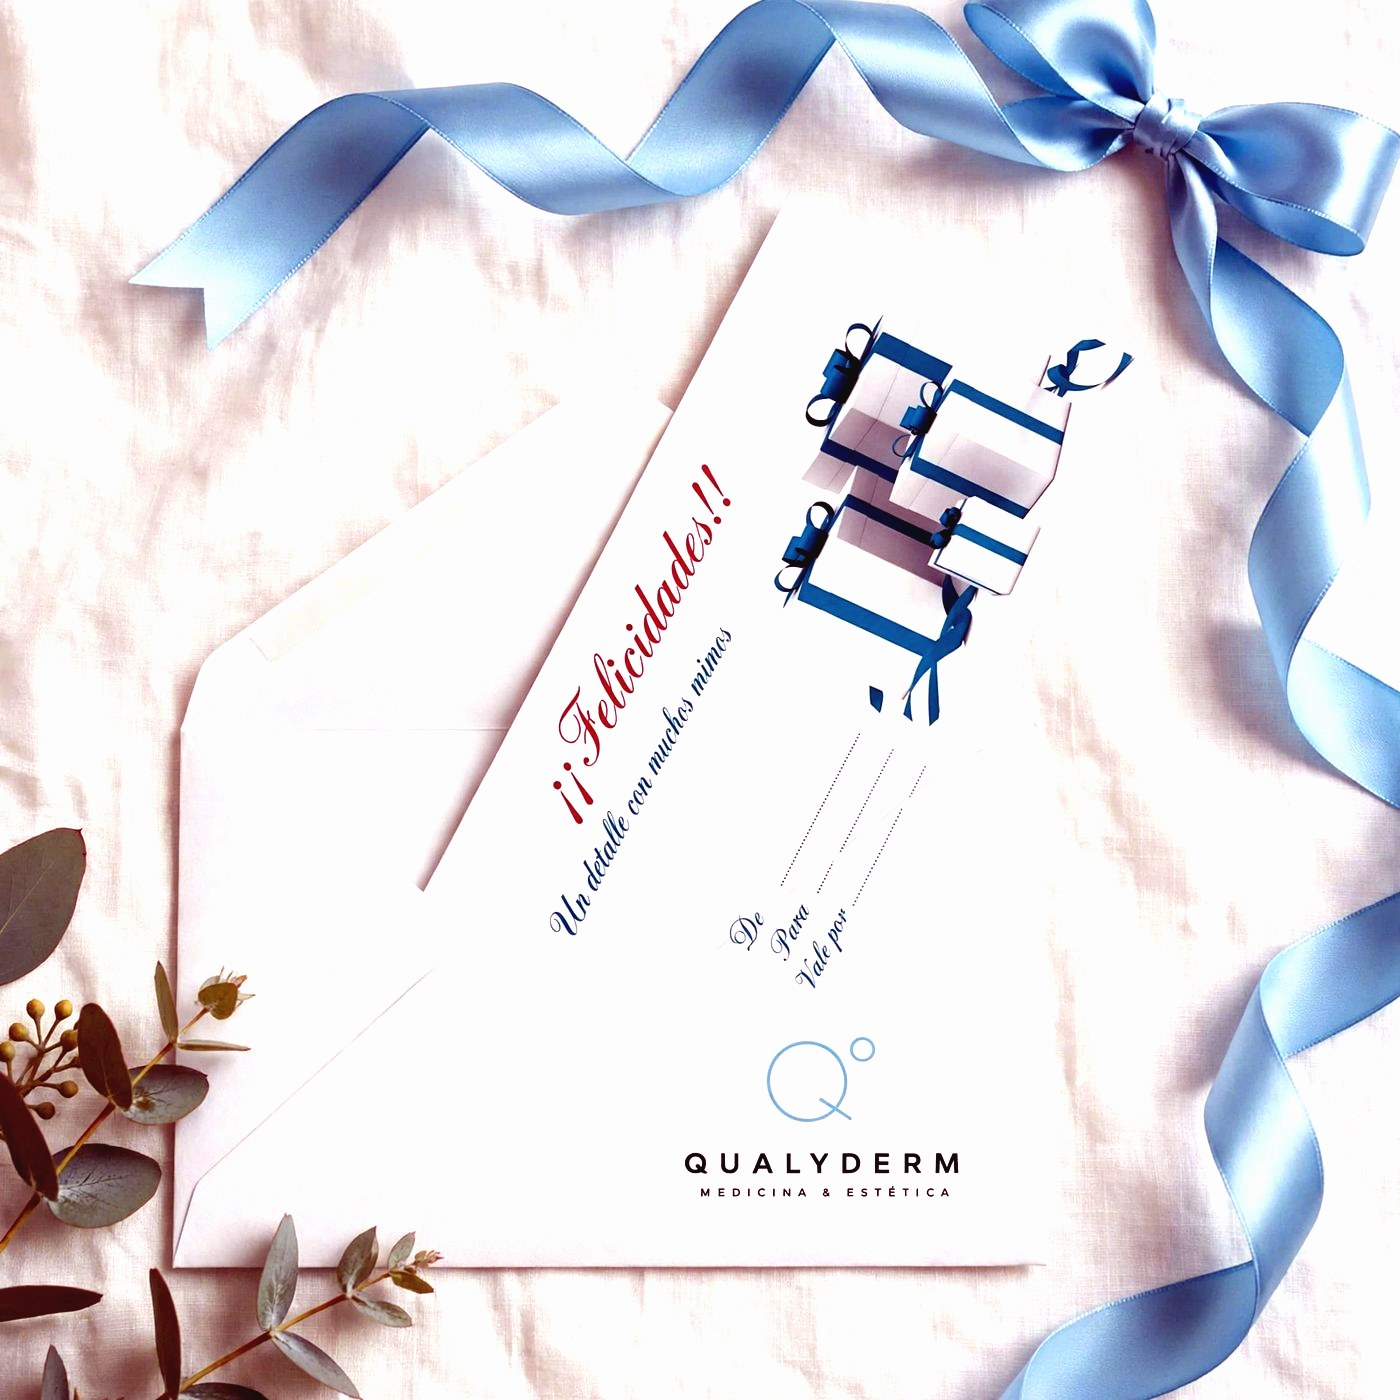
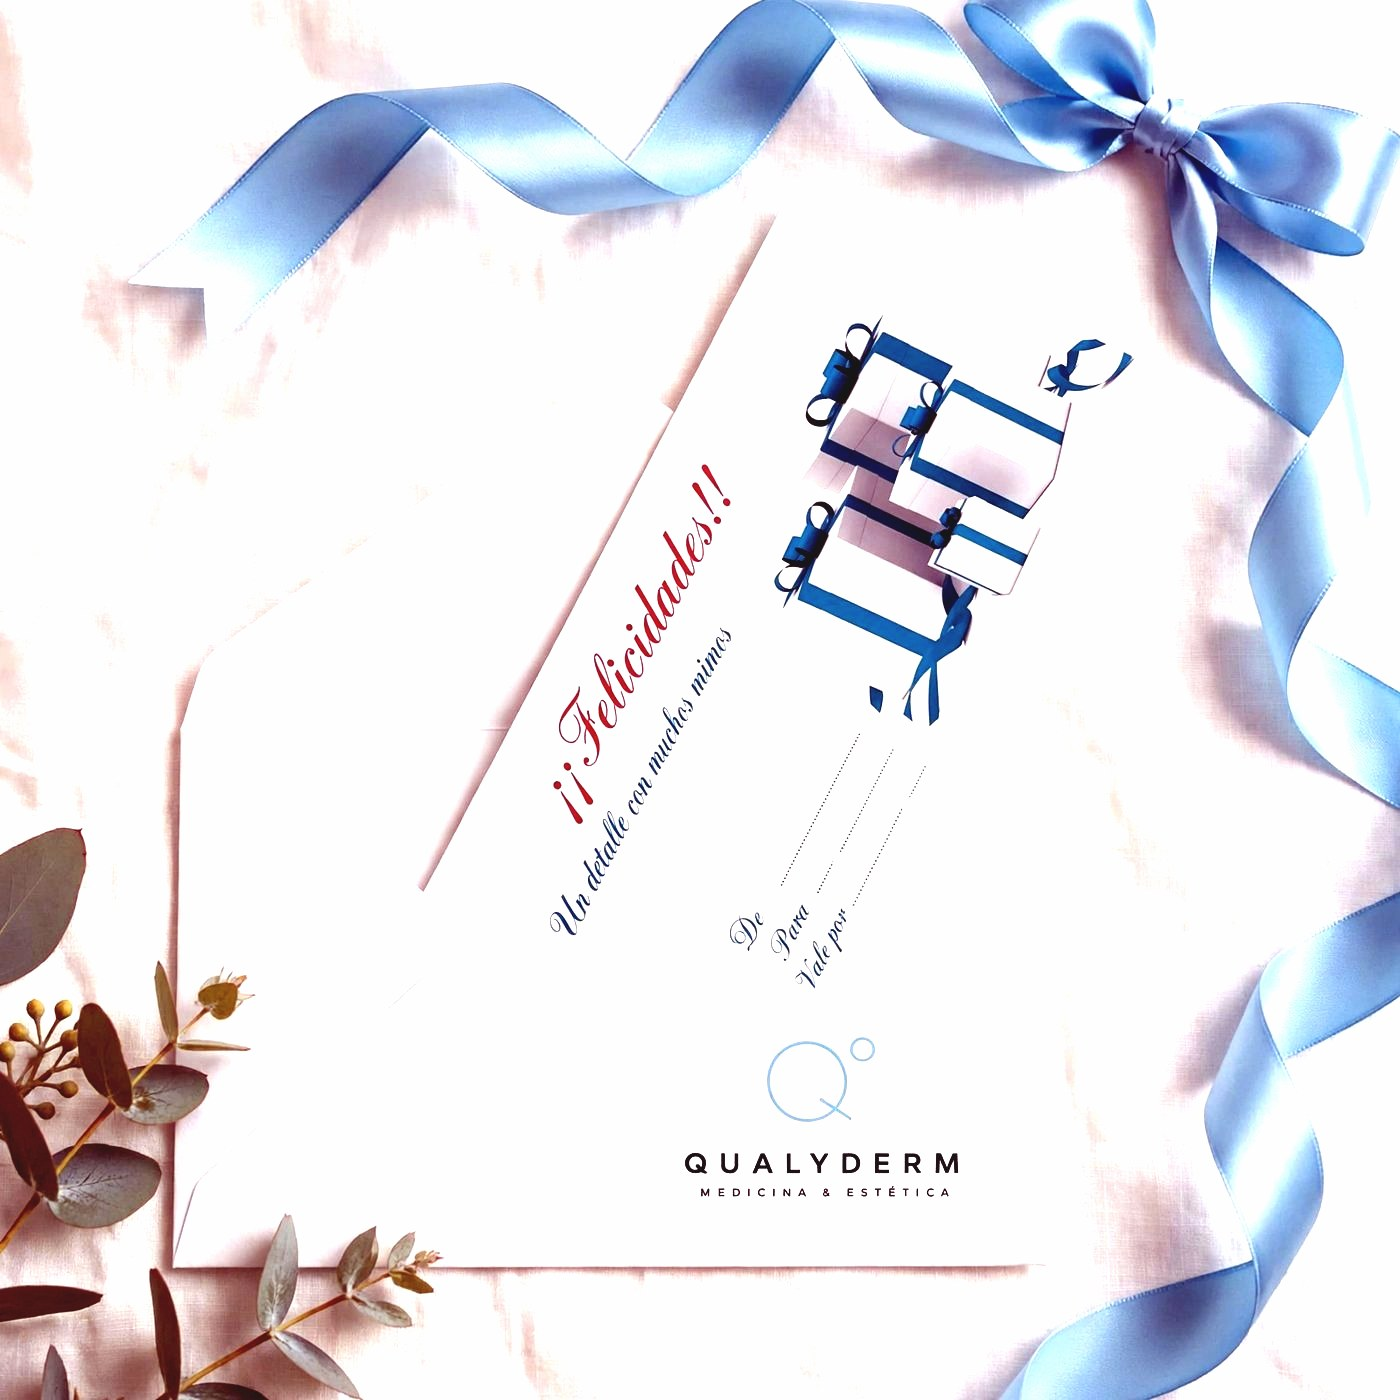
Ventajas para pacientes: fondo más claro y texto en negro
- Aclara un poco más las 3 fotos (tarjeta regalo, bodas y eventos,
  test de tolerancia).
- Invierte el degradado de las tarjetas: de oscuro con texto blanco a
  claro (tono marfil) con texto oscuro/verde y el enlace en azul,
  siguiendo la línea de tonos claros del resto de la web.

diff --git a/index.html b/index.html
@@ -381,16 +381,16 @@
     transition:transform .55s cubic-bezier(.16,1,.3,1),box-shadow .55s ease;
   }
   .strip-card .sc-bg{position:absolute;inset:0;width:100%;height:100%;object-fit:cover;filter:saturate(.9) sepia(4%);transition:transform 1.1s cubic-bezier(.16,1,.3,1);}
-  .strip-card::after{content:'';position:absolute;inset:0;background:linear-gradient(175deg,rgba(30,58,73,.12) 0%,rgba(30,58,73,.5) 42%,rgba(24,45,58,.93) 100%);}
-  .strip-card:hover{transform:translateY(-7px);box-shadow:0 44px 66px -32px rgba(30,50,38,.45);}
+  .strip-card::after{content:'';position:absolute;inset:0;background:linear-gradient(175deg,rgba(251,249,245,.08) 0%,rgba(251,249,245,.58) 45%,rgba(251,249,245,.94) 100%);}
+  .strip-card:hover{transform:translateY(-7px);box-shadow:0 44px 66px -32px rgba(30,50,38,.30);}
   .strip-card:hover .sc-bg{transform:scale(1.07);}
   .strip-card .sc-inner{position:relative;z-index:2;padding:46px 42px 40px;}
-  .strip-card .eyebrow{color:var(--rosa-suave);}
-  .strip-card .eyebrow::before{background:var(--rosa-suave);}
-  .strip-card h3{color:var(--marfil);font-size:24px;margin:14px 0 12px;font-weight:400;}
-  .strip-card p{font-size:13.5px;font-weight:300;color:rgba(251,249,245,.82);margin-bottom:22px;max-width:400px;line-height:1.6;}
-  .strip-card .sc-cta{font-size:11px;letter-spacing:.14em;text-transform:uppercase;font-weight:600;color:var(--marfil);display:inline-flex;align-items:center;gap:9px;border-bottom:1px solid rgba(251,249,245,.4);padding-bottom:6px;transition:border-color .3s ease;}
-  .strip-card:hover .sc-cta{border-color:var(--marfil);}
+  .strip-card .eyebrow{color:var(--bronce);}
+  .strip-card .eyebrow::before{background:var(--bronce);}
+  .strip-card h3{color:var(--verde);font-size:24px;margin:14px 0 12px;font-weight:400;}
+  .strip-card p{font-size:13.5px;font-weight:300;color:#4b4f47;margin-bottom:22px;max-width:400px;line-height:1.6;}
+  .strip-card .sc-cta{font-size:11px;letter-spacing:.14em;text-transform:uppercase;font-weight:600;color:var(--azul);display:inline-flex;align-items:center;gap:9px;border-bottom:1px solid rgba(47,80,105,.35);padding-bottom:6px;transition:border-color .3s ease;}
+  .strip-card:hover .sc-cta{border-color:var(--azul);}
   .strip-card .sc-cta svg{width:12px;height:12px;transition:transform .3s ease;}
   .strip-card:hover .sc-cta svg{transform:translateX(5px);}
 
